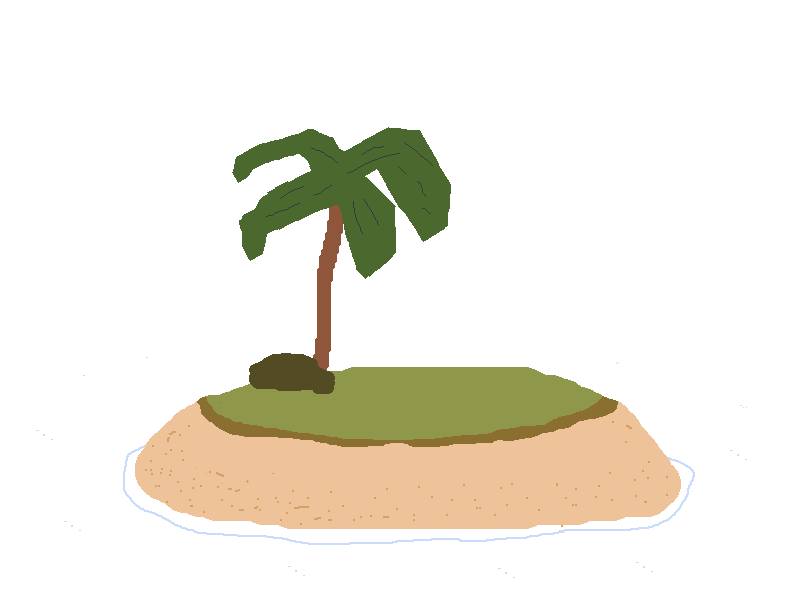
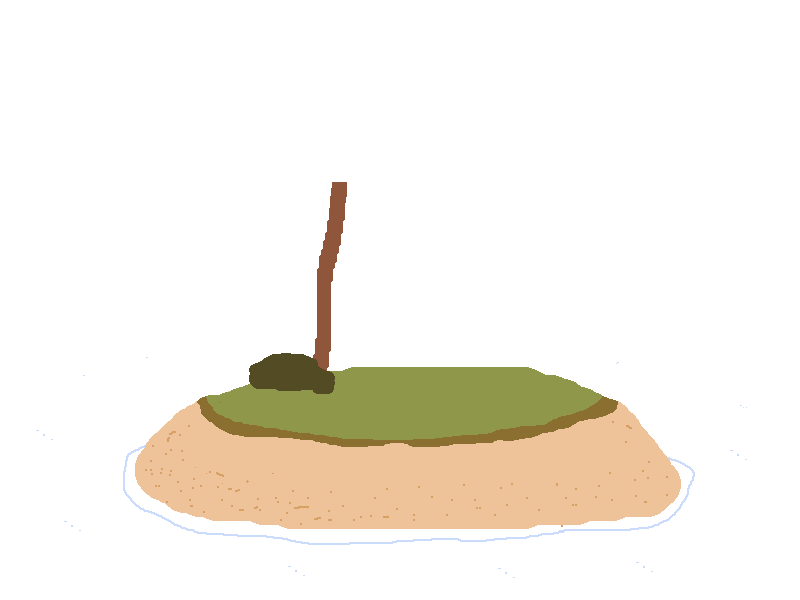
Leafs ahead of cocos... best feature ever

Changed region(s): [[0.2812, 0.21, 0.5625, 0.48]]

diff --git a/src/entities.py b/src/entities.py
@@ -236,8 +236,9 @@ class CocoSystem:
             radius = 15
             inertia = pymunk.moment_for_circle(mass, 0, radius, (0, 0))
             body = pymunk.Body(mass, inertia)
-            x = random.randint(0, self.screen_width)
-            y = self.screen_height
+            # Lets make a coco fall from tree:
+            x = random.randint(self.screen_width/2-100, self.screen_width/2)
+            y = self.screen_height/2+100
             body.position = x, y
             shape = pymunk.Circle(body, radius, pymunk.Vec2d(0, 0))
             shape.friction = 0.3
@@ -302,6 +303,14 @@ class DynamicBackground(Entity):
         self.sky = assets.dynamic_background_sky_by_hour
         self.sea = assets.sea
         self.frames_of_bg = assets.dynamic_background_frames
+        self.frames_of_bg_leafs = assets.dynamic_background_leafs
+        self.leafs = arcade.Sprite(center_x=width/2, center_y=height/2)
+        self.leafs.texture = self.frames_of_bg_leafs[0]
+        self.leafs_frame = 0
+        self.leafs.center_x = self.x
+        self.leafs.center_y = self.y
+        self.leafs.width = self.width
+        self.leafs.height = self.height
         self.frame = 0
         self.previous_delta = 0
         self.game_hour = 14
@@ -319,13 +328,18 @@ class DynamicBackground(Entity):
                                             self.sky[int(self.game_hour)])
         arcade.draw_lrwh_rectangle_textured(0, 0, self.res_width, self.res_height/2, self.sea)
 
+    def draw_leafs(self):
+        self.leafs.draw()
+
     def on_draw(self):
         self.draw_sea_and_sky()
         self.draw()
+        self.draw_leafs()
 
     def change_frame(self, frame):
         self.sprite_list.clear()
         self.append(self.frames_of_bg[frame])
+        self.leafs.texture = self.frames_of_bg_leafs[frame]
 
     def on_update(self, delta_time: float = 1/60):
         if self.current_frame < 5.9:

diff --git a/src/run_game.py b/src/run_game.py
@@ -146,7 +146,7 @@ class StartGame(arcade.View):
                 self.window.show_view(game_view)
         for button in self.slot_buttons_restart:
             if button.current_state == 'hover':
-                game_view = GameView()
+                game_view = GameView(background=self.background)
                 self.window.show_view(game_view)
 
 
@@ -216,8 +216,10 @@ class GameView(arcade.View):
             self.developer_mode_pre_render()
 
         arcade.start_render()
-        self.background.on_draw()
+        self.background.draw_sea_and_sky()
+        self.background.draw()
         self.coco_system.on_draw()
+        self.background.draw_leafs()
 
         self.hero.draw()
 

diff --git a/src/assets.py b/src/assets.py
@@ -71,11 +71,15 @@ button_textures = {"start": button_start_idle,
 
 # BACKGROUND
 dynamic_background_frames = []
+dynamic_background_leafs = []
 dynamic_background_sky_by_hour = []
 
 for x in range(1,7,1):
     background = arcade.Sprite(path_to_string('gfx', 'bg_full_island'+str(x)+'.png'), BG_SCALING)
+    leafs = arcade.load_texture(file_name=path_to_string('gfx', 'bg_full_island_leafs' + str(x) + '.png'))
     dynamic_background_frames.append(background)
+    dynamic_background_leafs.append(leafs)
+
 for x in range(1,25,1):
     sky = arcade.load_texture(path_to_string('gfx', 'sky'+str(x)+'.png'))
     dynamic_background_sky_by_hour.append(sky)
